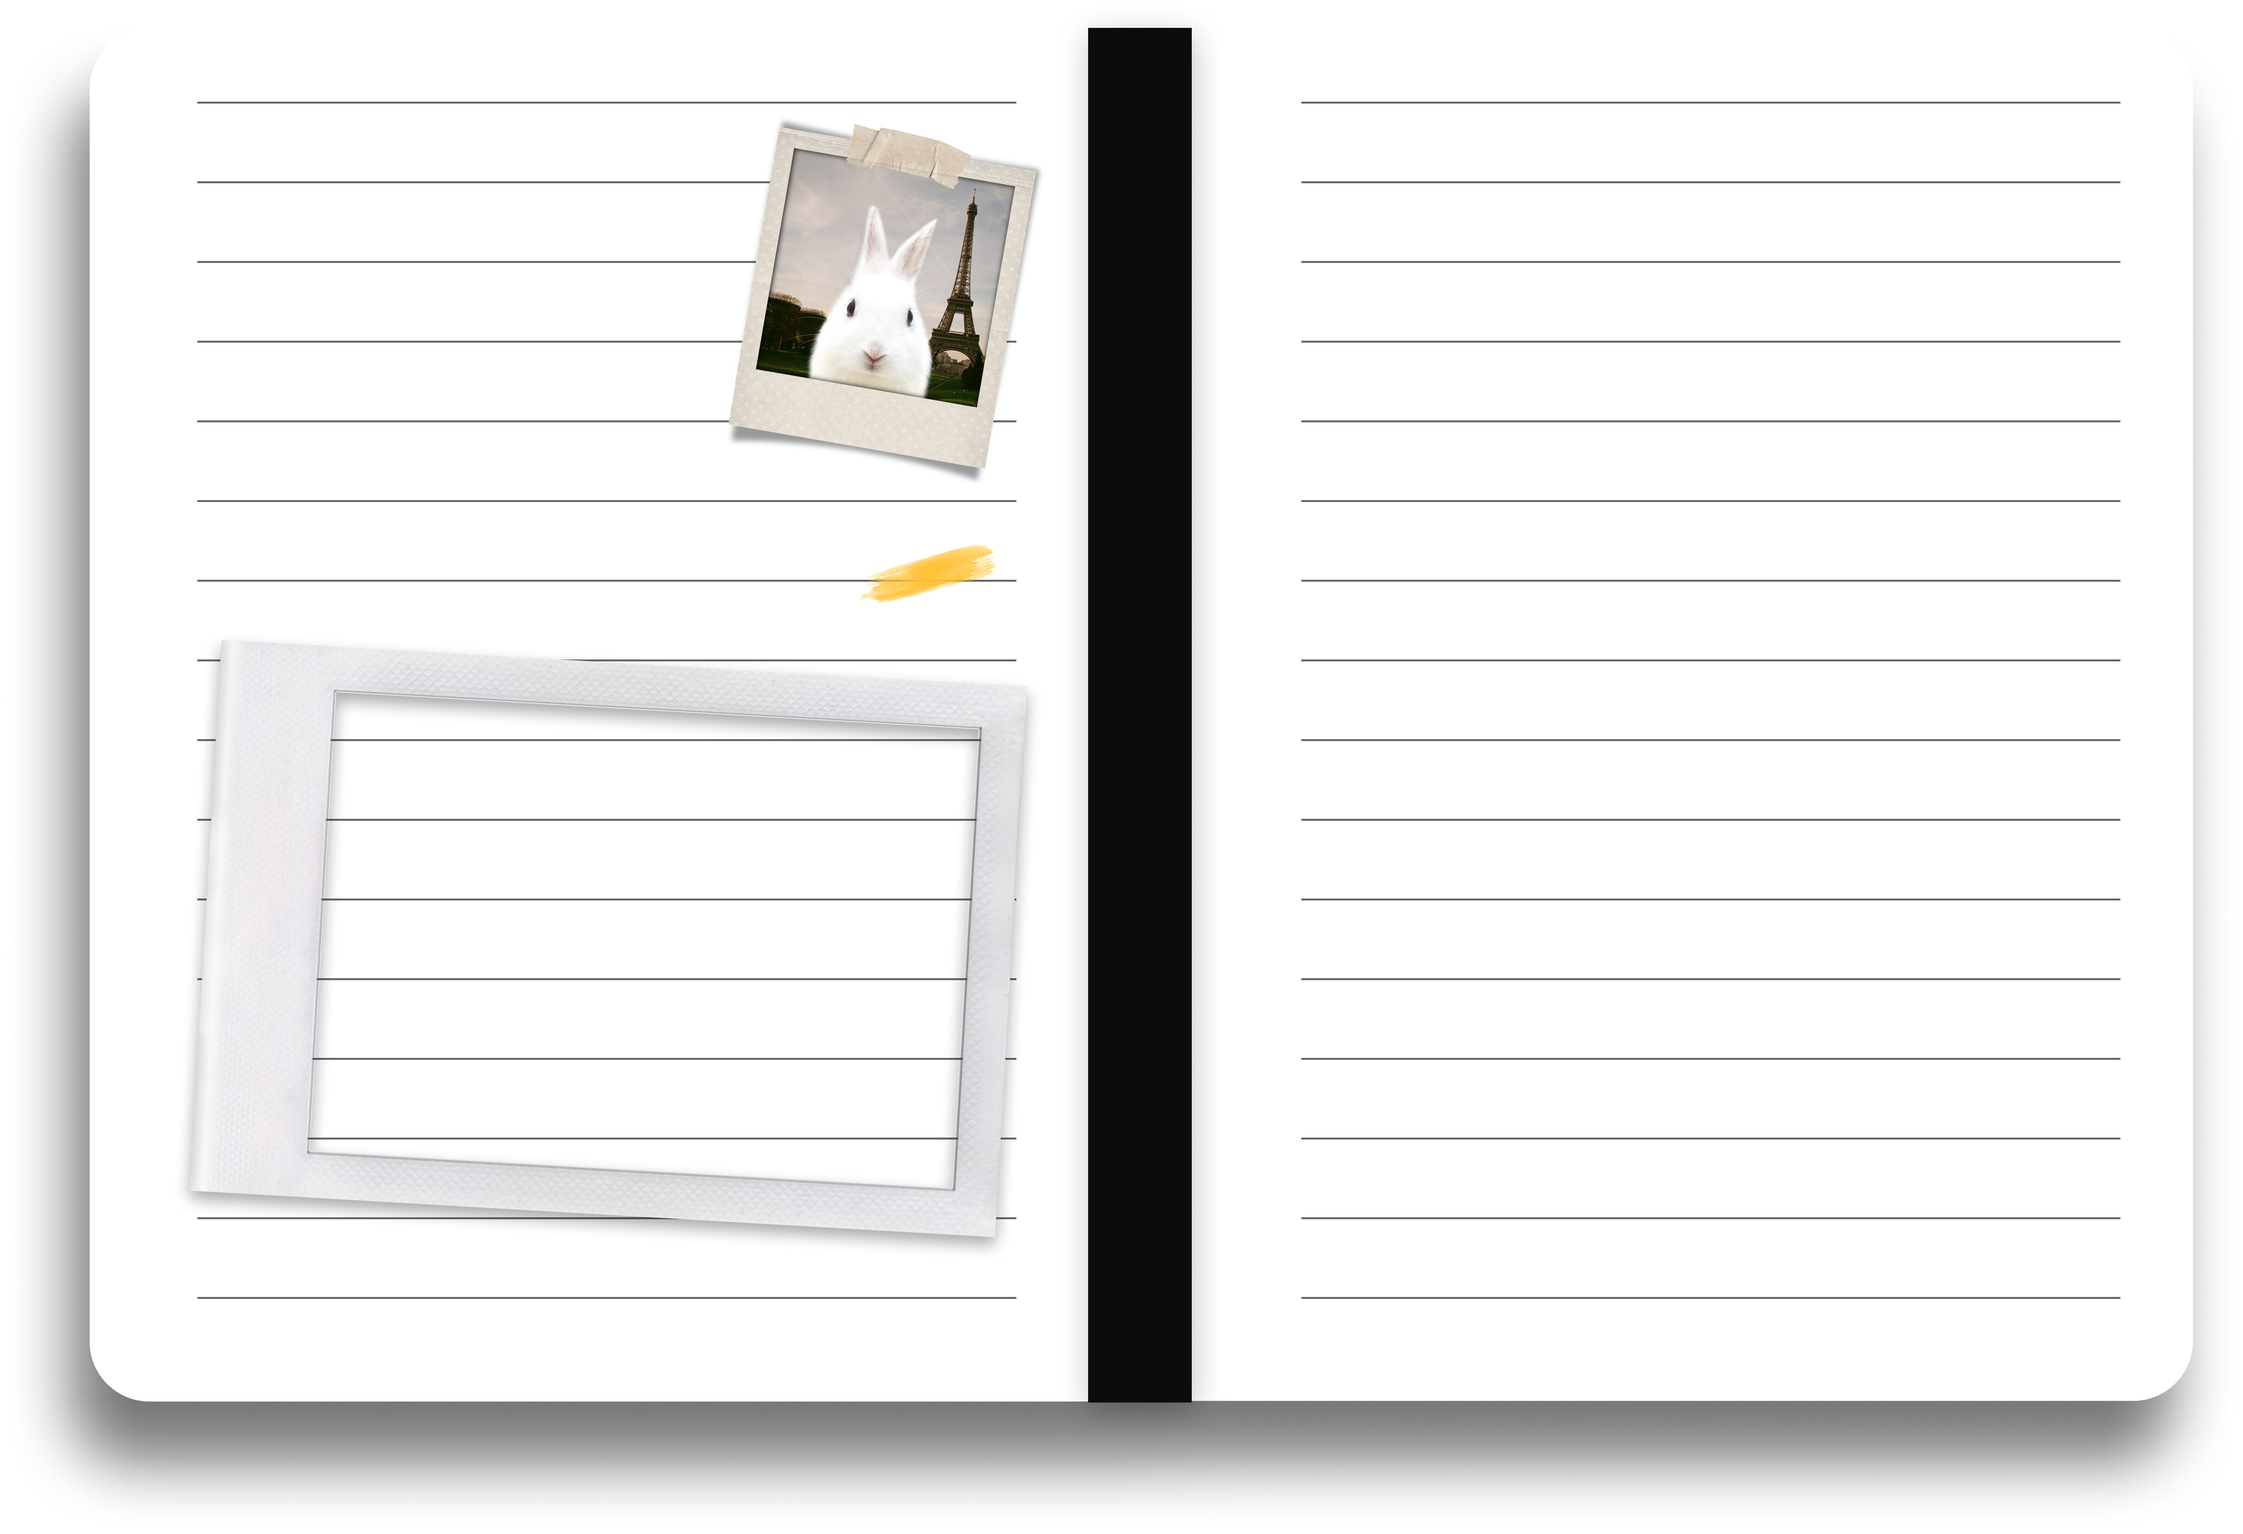
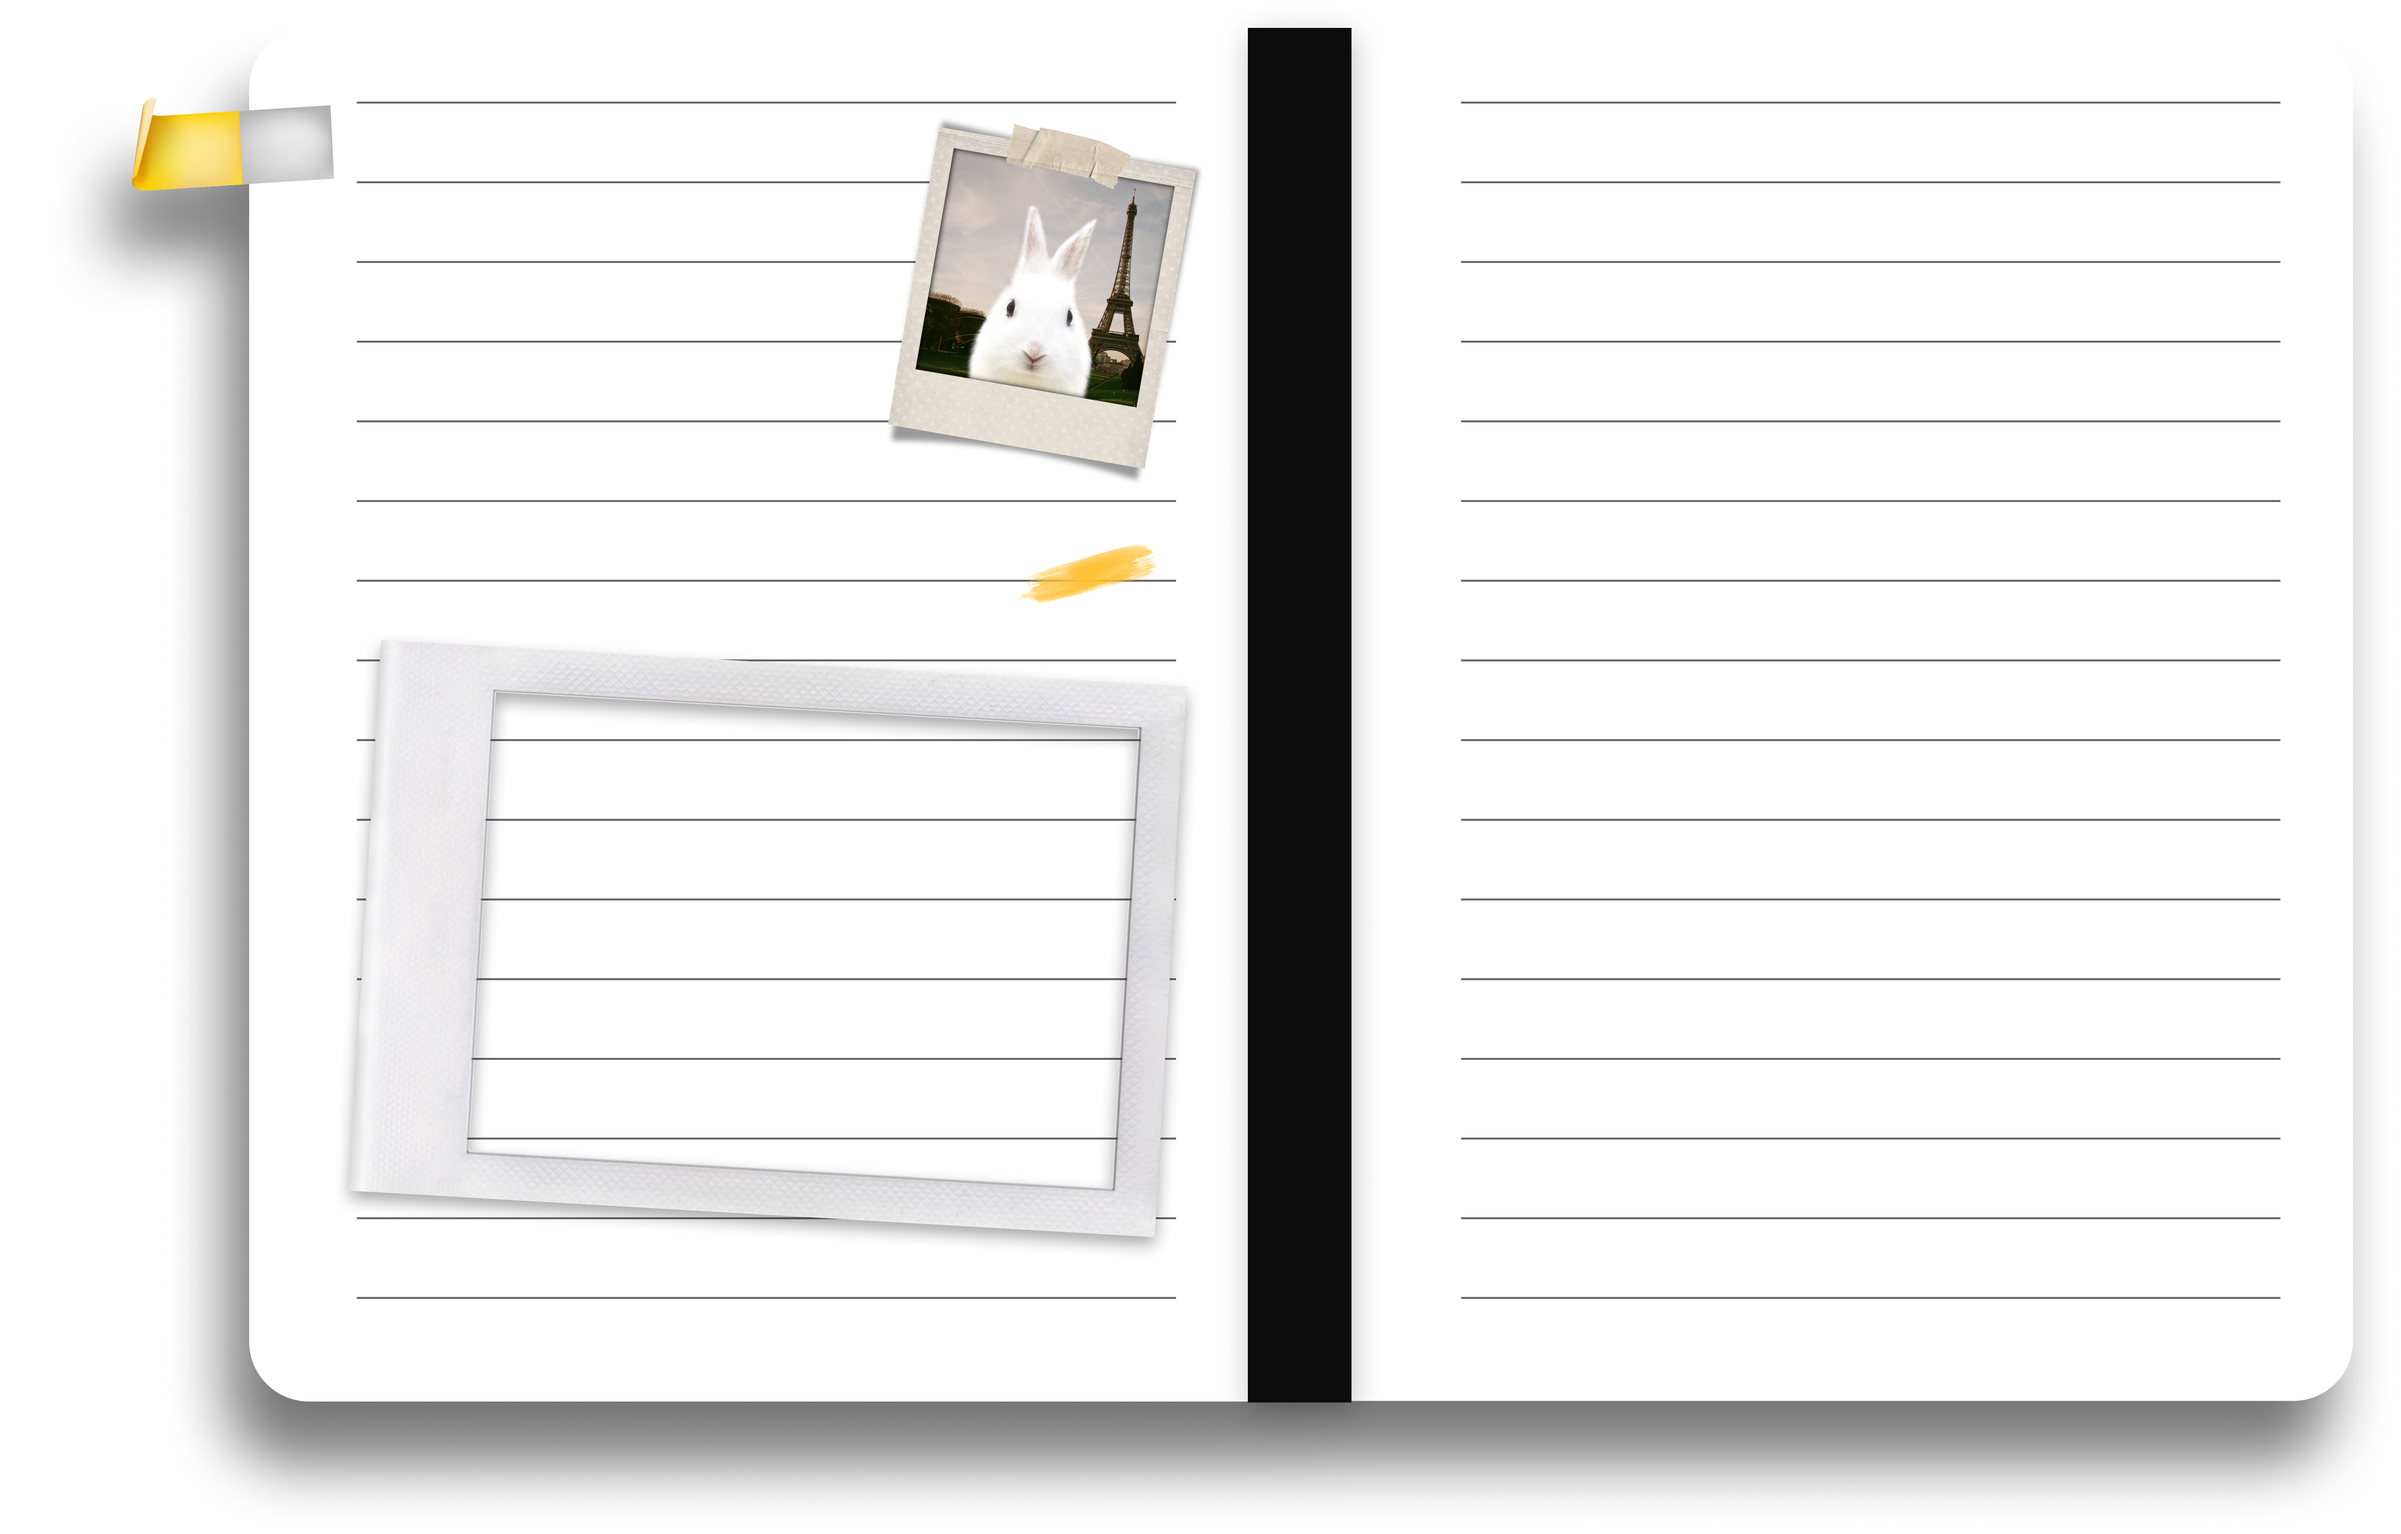
openNote markup

Changed region(s): [[0.0, 0.0, 0.5908, 0.9974]]

diff --git a/src/component/OpenNote/OpenNote.tsx b/src/component/OpenNote/OpenNote.tsx
@@ -1,6 +1,6 @@
 import React, { useState, useEffect, useRef, useCallback } from "react";
 import { useRecoilValue, useRecoilState } from "recoil";
-import { dateAtom, reviewAtom } from "../../atoms";
+import { dateAtom, reviewAtom, noteAtom } from "../../atoms";
 import * as Styled from "./OpenNote.style";
 import {
   query,
@@ -32,7 +32,7 @@ function OpenNote() {
   const ref = useRef<HTMLTextAreaElement>(null);
   const date = useRecoilValue(dateAtom);
   const [openReview, setOpenReview] = useRecoilState(reviewAtom);
-  const [note, setNote] = useState<boolean>(false);
+  const [note, setNote] = useRecoilState(noteAtom);
   const [review, setReview] = useState<IContent>();
   const [showReview, setShowReview] = useState<boolean>(false);
   const [content, setContent] = useState<IContent>({
@@ -172,6 +172,13 @@ function OpenNote() {
           )}
         </Styled.Wrapper>
       </Styled.NoteRightWrapper>
+      <Styled.CloseButton
+        onClick={() => {
+          setNote(false);
+        }}
+      >
+        <Icon.TiDeleteOutline />
+      </Styled.CloseButton>
       <Styled.Video src={Paris} loop autoPlay muted />
       <Styled.LifeQuotes>{randomLifeQuotes}</Styled.LifeQuotes>
       <Styled.OpenNote src={Img.OpenNote} onClick={closeNote} />

diff --git a/src/component/OpenNote/OpenNote.style.ts b/src/component/OpenNote/OpenNote.style.ts
@@ -17,7 +17,7 @@ export const OpenNote = styled.img`
 export const LifeQuotes = styled.div`
   position: absolute;
   top: 16%;
-  left: 11%;
+  left: 17%;
   width: 150px;
   height: 120px;
   padding-top: 47px;
@@ -31,7 +31,7 @@ export const LifeQuotes = styled.div`
 export const Video = styled.video`
   position: absolute;
   top: 46%;
-  left: 14%;
+  left: 17%;
   width: 30%;
   height: 31%;
   object-fit: cover;
@@ -40,17 +40,17 @@ export const Video = styled.video`
 
 export const NoteRightWrapper = styled.div`
   position: absolute;
-  top: 8.5%;
-  right: 14%;
+  top: 4.5%;
+  right: 8.5%;
   display: flex;
   flex-direction: column;
-  width: 30%;
-  height: 82%;
+  width: 35%;
+  height: 83%;
 `;
 
 export const Wrapper = styled.div`
-  width: 125%;
-  height: 39%;
+  width: 109%;
+  height: 33%;
   padding: 10px;
   margin-left: 12px;
   border-radius: 10px;
@@ -131,5 +131,19 @@ export const MinimumButton = styled.div`
 `;
 
 export const Button = styled(MinimumButton)`
-  margin-top: 15%;
+  padding-top: 15%;
+`;
+
+export const CloseButton = styled.div`
+  position: absolute;
+  top: 8%;
+  left: 7%;
+  color: #656565;
+  font-size: 18px;
+  & svg {
+    cursor: pointer;
+    &:hover {
+      color: black;
+    }
+  }
 `;

diff --git a/src/component/Main/Main.tsx b/src/component/Main/Main.tsx
@@ -5,10 +5,12 @@ import Phone from "./Phone/Phone";
 import EarPhones from "./EarPhones/EarPhones";
 import { Paper } from "../../assets/sounds";
 import OpenNote from "../OpenNote/OpenNote";
+import { useRecoilState } from "recoil";
+import { noteAtom } from "../../atoms";
 
 function Main() {
   const paperSound = new Audio(Paper);
-  const [note, setNote] = useState<boolean>(false);
+  const [note, setNote] = useRecoilState(noteAtom);
 
   const openNote = () => {
     setNote(true);

diff --git a/src/assets/icons/index.js b/src/assets/icons/index.js
@@ -2,5 +2,6 @@ import { TfiPencil } from "react-icons/tfi";
 import { MdOutlineDeleteForever } from "react-icons/md";
 import { HiMinusSm } from "react-icons/hi";
 import { RiAddCircleFill } from "react-icons/ri";
+import { TiDeleteOutline } from "react-icons/ti";
 
-export {TfiPencil,MdOutlineDeleteForever,HiMinusSm,RiAddCircleFill}
+export {TfiPencil,MdOutlineDeleteForever,HiMinusSm,RiAddCircleFill,TiDeleteOutline}

diff --git a/src/component/Calendar/Calendar.tsx b/src/component/Calendar/Calendar.tsx
@@ -7,7 +7,7 @@ import { Holiday } from "../../types/type";
 import { Memo2 } from "../../assets/images";
 
 const Container = styled.div`
-  width: 130%;
+  width: 123%;
   height: 80%;
   font-size: 13px;
   text-align: center;

diff --git a/src/atoms.ts b/src/atoms.ts
@@ -20,3 +20,8 @@ export const reviewAtom = atom<boolean>({
   key: "review",
   default: false,
 });
+
+export const noteAtom = atom<boolean>({
+  key: "note",
+  default: false,
+});
